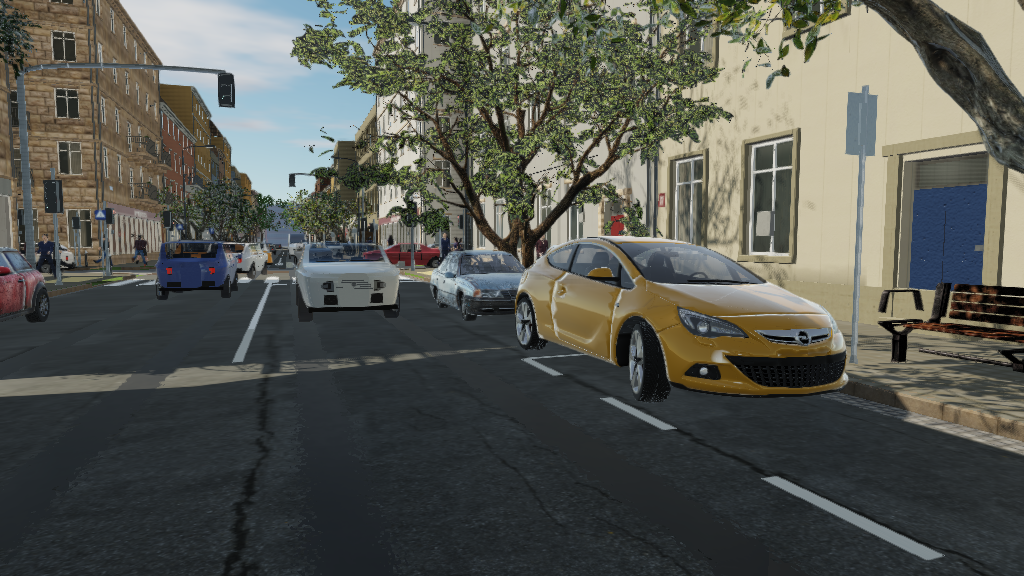
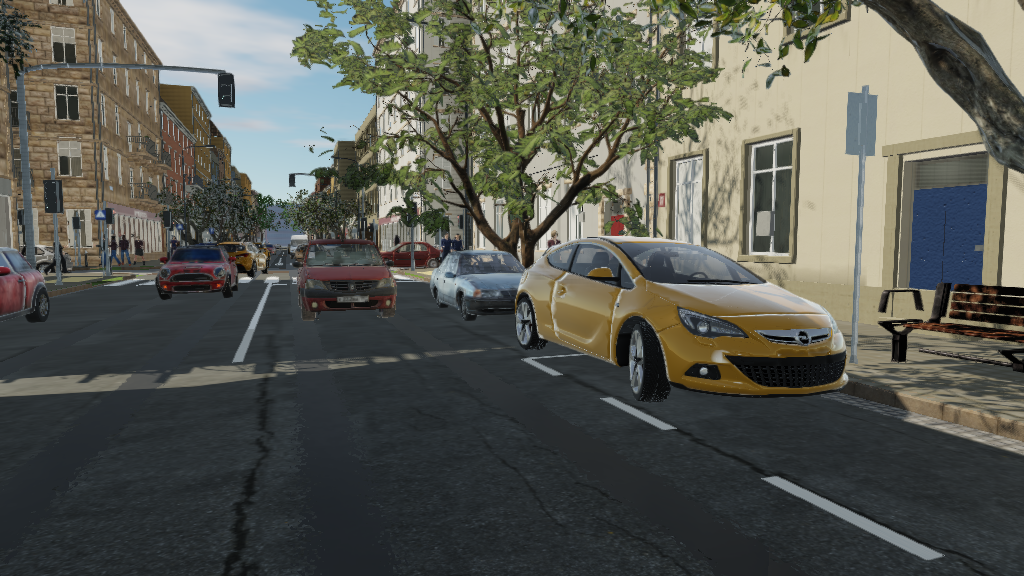
docs: the fifth pass -- coherence: before and after, flagship frames, report, performance
docs/visual-overhaul-5: every viewpoint before (8546c1f) beside after at
the same settings, the eight flagship frames at 1920 x 1080 at one sample
and resolved from two, the report, and the performance table -- llvmpipe
before against after from the same build directory, and the first profile
on the machine's own GPU, where the frame is bound by draw submission.

README: the cars driven, the gaits, the dressed facades, the supersample
flag, the mip-chain workaround, the performance table's fifth column.
plan.md: the fifth pass and what is next. design-notes: the weakest
prominent object, driving a car whose author did not separate the wheels,
a walk as several curves. The follow-up document notes the GLTF-206
workaround. The committed screenshot set is re-shot from the current
tree.

diff --git a/README.md b/README.md
@@ -143,7 +143,13 @@ projecting surround round each window, the balconies stand on brackets, every
 shop door is set a third of a metre back into a reveal with a stone threshold
 and a pull handle, and the walls carry what walls carry: meter cabinets,
 vents, conduit runs with their saddles, scanned security cameras over the
-shop doors and scanned condenser units beside the upper windows.
+shop doors and scanned condenser units beside the upper windows. The upper
+windows are two metres tall, as the rooms behind them were built for, and
+each shows something: a net curtain across the pane or drawn to the sides,
+a roller blind part way down, a room with the light off; a keystone stands
+proud of every head on the rendered and ashlar blocks, half of those blocks
+carry folding shutters beside their windows -- one in eight closed -- and
+half have quoins up their corners.
 
 **Beyond the frontage.** The two streets continue past the modelled plots
 with their kerbs, footways and carriageways, lined by blocks that carry real
@@ -162,18 +168,29 @@ never the same model in two neighbouring bays. They are static, so the
 reflection probes hold them and the shop windows reflect them. The loft each
 one replaces stays in the simulation and is not drawn.
 
-**The moving parts.** Twelve vehicles over six classes — city car, hatchback,
-saloon, estate, crossover, van — lofted from monotone-cubic profile curves
-rather than assembled from boxes, with wheel arches cut into the body, separate
+**The moving parts.** The traffic is the same eight authored cars, driven:
+`scripts/blender-vehicles.py` finds each model's four tyres, splits the
+wheels off into nodes of their own centred on their axles, and the scene
+rolls them from the odometer at their own radius and steers the front pair
+through the junction. Behind them stand twelve lofted vehicles over six
+classes — city car, hatchback, saloon, estate, crossover, van — lofted from
+monotone-cubic profile curves rather than assembled from boxes, with wheel arches cut into the body, separate
 wheels that roll and steer, tyres with shoulders, five-spoke alloys, tinted
 glazing, mirrors, bumpers, a grille with slats and a badge, wrap-around lamp
 clusters with chromed reflectors, number plates, a roof aerial and an interior
 with seats and a steering wheel. Bicycles lean on the stands. They follow the vehicle ahead, brake for a red light with
-their brake lamps lit, and turn through the junction on a Bézier.
+their brake lamps lit, and turn through the junction on a Bézier. They are the fallback for a tree
+without the derived cars, and the simulation the authored cars are driven by.
 
 Fifty-odd people over eight variants, each one mesh per material on a
-nineteen-bone skeleton and animated on the GPU by `SkinnedPbrEffect` from walk
-and idle clips built in code. The eight are built from MakeHuman's CC0 base
+nineteen-bone skeleton and animated on the GPU by `SkinnedPbrEffect` from
+three walks and three ways of standing built in code: an ordinary pace, a
+brisk one with a longer stride and more arm, an easy one with less; and a
+wait that shifts its weight and looks about, one that reads a phone, one
+with the hands together. Each person is dealt a gait and a stance, a stride
+scaled to their height, a place on the footway rather than its centre line,
+and turns a corner over half a second; one in six walks with the person in
+front. The eight are built from MakeHuman's CC0 base
 mesh and system wardrobe -- skins, clothes, shoes, hair, eyes -- by
 `scripts/blender-people.py` with MPFB in Blender, posed with the arms down,
 their authored weights folded from MakeHuman's 137 bones onto this project's
@@ -209,10 +226,11 @@ densest.
 
 `docs/visual-overhaul/` holds the first overhaul's before-and-after set,
 `docs/visual-overhaul-2/` the second pass's, `docs/visual-overhaul-3/` the
-third's, and `docs/visual-overhaul-4/` the fourth's: authored cars, authored
-people, three tree species, architectural depth and the hero cafe, each
-viewpoint before beside after, the night set, flagship frames at 1920 × 1080,
-and what it cost.
+third's, `docs/visual-overhaul-4/` the fourth's, and
+`docs/visual-overhaul-5/` the fifth's: the authored cars driven, three gaits,
+dressed windows and shutters, the cafe composed further, mip chains for every
+imported image and supersampled stills, each viewpoint before beside after,
+flagship frames at 1920 × 1080, and what it cost.
 
 ## Building
 
@@ -329,6 +347,7 @@ The command line, in full, is `--help`. The ones that matter:
 | `--camera x,y,z,yaw,pitch` | Start at an explicit camera, in radians |
 | `--screenshot <file.png>` | Write one frame and exit |
 | `--capture <dir>` | Write every named viewpoint into `<dir>` and exit |
+| `--supersample <n>` | Render a still at *n* times the size and box-filter it down, in linear light: the flagship frames are shot at 2 |
 | `--frames <n>` | Render *n* frames and exit |
 | `--sun <elev> <azimuth>` | Move the sun, in degrees |
 | `--no-shadows`, `--no-ssao`, `--no-bloom`, `--no-fog`, `--no-clouds`, `--no-ibl` | Turn one thing off |
@@ -717,7 +736,7 @@ generated trees, the lofted cars and the generated figures stand in.
 ctest --test-dir build --output-on-failure
 ```
 
-Twelve suites over the parts of the street that can be checked without a device:
+Thirteen suites over the parts of the street that can be checked without a device:
 the signal controller, the traffic model, the walk graph, mesh building, the
 layout, the settings parser, the camera frustum, the mip-chain generation the
 content pipeline depends on, the shapes and surfaces the first visual overhaul
@@ -804,18 +823,18 @@ them again. The overlay's headline is an *exponential* average and its
 breakdown is one frame's stage times: right for flying a camera around, wrong
 for tuning — it once read 214 ms on a frame that took 778.
 
-| | Before the second pass (`27f92a8`) | Before the third (`83dc8e1`) | Before the fourth (`c31ae23`) | Now |
-| --- | --- | --- | --- | --- |
-| Scene build | 7 s from compiled content | 7 s, then 6–8 s baking 29 reflection probes | 12 s, then 7 s of probes | 17 s, then 8 s of probes |
-| Static batches | 1 187 | 1 586 | 1 634 | 1 655 |
-| Textures | 198 catalogue surfaces plus per-shop signage and the imported models' own | the same, plus a poster atlas and a weathering-decal atlas | the same, fourteen of them scans at 1024 px, plus twenty scanned models' own | the same, plus forty-four scanned models', eight cars' at 1k and eight people's with mip chains |
-| Plots, vehicles, people | 42, 74, 78 | 42, 74, 78 | 42, 74 + one covered car, 78 | 42, 74 of which 8 are authored, 78 over 8 authored people |
-| Draw calls per frame | 1 361, of which 160 are skinned | 1 535 | 1 564 | 1 700 |
-| Shadow draw calls | 2 840 | 3 115 | 3 303 | 3 563 |
-| Triangles drawn | 560 k | 603 k | 1 695 k, of which the hero trees are most | 5 150 k, of which the trees are most |
-| Frame, 1024×576 | 34–45 ms median | 41–51 ms median | 47–59 ms median, interleaved with 52–64 for `83dc8e1` on a busy machine | 59–62 ms median against 47 for `c31ae23` |
-| Frame, 1920×1080 | 46 ms | 47 ms | 64 ms against 60 | 76 ms |
-| Frame, `--night` | 34 ms | 47 ms | unchanged by this pass | 56 ms |
+| | Before the second pass (`27f92a8`) | Before the third (`83dc8e1`) | Before the fourth (`c31ae23`) | Before the fifth (`c171cec`) | Now |
+| --- | --- | --- | --- | --- | --- |
+| Scene build | 7 s from compiled content | 7 s, then 6–8 s baking 29 reflection probes | 12 s, then 7 s of probes | 17 s, then 8 s of probes | 27 s on a loaded machine, then 10 s of probes |
+| Static batches | 1 187 | 1 586 | 1 634 | 1 655 | 1 721 |
+| Textures | 198 catalogue surfaces plus per-shop signage and the imported models' own | the same, plus a poster atlas and a weathering-decal atlas | the same, fourteen of them scans at 1024 px, plus twenty scanned models' own | the same, plus forty-four scanned models', eight cars' at 1k and eight people's with mip chains | the same, every imported image now compiled with a mip chain, two cars' paint at 2k |
+| Plots, vehicles, people | 42, 74, 78 | 42, 74, 78 | 42, 74 + one covered car, 78 | 42, 74 of which 8 are authored, 78 over 8 authored people | 42, 74 all drawn as the 8 authored models, 78 over 8 people in 3 gaits |
+| Draw calls per frame | 1 361, of which 160 are skinned | 1 535 | 1 564 | 1 700 | 1 750–1 780 |
+| Shadow draw calls | 2 840 | 3 115 | 3 303 | 3 563 | 3 525 |
+| Triangles drawn | 560 k | 603 k | 1 695 k, of which the hero trees are most | 5 150 k, of which the trees are most | 5 620 k |
+| Frame, 1024×576 | 34–45 ms median | 41–51 ms median | 47–59 ms median, interleaved with 52–64 for `83dc8e1` on a busy machine | 59–62 ms median against 47 for `c31ae23` | 71–77 ms median against 72–86 for `c171cec`, both on a machine running other builds |
+| Frame, 1920×1080 | 46 ms | 47 ms | 64 ms against 60 | 76 ms | not re-measured |
+| Frame, `--night` | 34 ms | 47 ms | unchanged by this pass | 56 ms | not re-measured |
 
 Those are from a 16-core machine that was busy with other work while it
 measured, hence the ranges; the first overhaul's table, from four cores, is in
@@ -857,6 +876,16 @@ milliseconds are the opaque pass and four the shadow pass.
 `docs/visual-overhaul-4/performance.md` has the runs and where the triangles
 went.
 
+Against `c171cec`, the commit before the fifth pass, three runs each from the
+same build directory on a machine running other work throughout (load
+average eight to fourteen): **within noise** -- 73 / 86 / 78 ms before
+against 76 / 74 / 79 after at 1024 × 576 -- for every moving car drawn as
+an authored model, the dressed facades and the cafe. The first cut of the
+pass measured 92 ms; the props inside shops no longer cast shadows and a
+moving car switches to its welded far copy at thirty-two metres, which took
+it back. `docs/visual-overhaul-5/performance.md` has the runs, and a profile
+on the machine's own GPU, where the frame is the shadow pass's draw calls.
+
 Against `83dc8e1`, the commit before the third pass, three interleaved pairs
 at 1024 × 576 came out 52.0 / 63.8 / 55.4 ms before against 47.2 / 52.1 /
 58.6 ms after, and one pair at 1920 × 1080 59.5 against 63.8: within noise,
@@ -891,9 +920,10 @@ materials, and alpha masking instead of blending everywhere except glass.
 * **No audio.** CNA's audio module is there and works; the demo has nothing to
   play through it, and a synthesised city ambience would be a worse thing than
   silence.
-* **The moving traffic is still lofts.** The eight authored cars are parked;
-  a car driving past the camera is the generated one, because a moving car
-  needs wheels that turn and the authored models do not separate theirs.
+* **The moving traffic has no brake lights.** The authored cars carry their
+  lamps in their textures, so a driven one shows no lit lens when it brakes;
+  the loft it stands in for did. A per-part emissive override for the parts
+  named as lamps is the next step.
 * **The people's faces are painted.** MakeHuman's skins hold at four metres,
   which is where a street is seen from, and at two metres a painted face is a
   painted face.
@@ -903,10 +933,12 @@ materials, and alpha masking instead of blending everywhere except glass.
   the MPFB extension the manifest fetches; without Blender the generated
   trees, the lofted cars and the generated figures stand in, which is the
   fallback and not a failure.
-* **Scanned props and the cars carry one mip level** (GLTF-206), which is
-  why they are fetched or capped at 1k rather than 2k or 4k: a texture would
-  otherwise shimmer from a few metres. The people's textures do not, because
-  they go through the catalogue's compiler.
+* **An imported model's own images carry one mip level** (GLTF-206). The
+  content build now compiles every image a model refers to under its own
+  full name with a chain, which `ContentManager` finds before the loose
+  file, so nothing in the compiled set shimmers; a tree running the models
+  straight from their `.glb` files does, and the props are still fetched at
+  1k for it.
 * **An imported single-sided part draws inside out** under CNA's default cull
   (CNA-F15). The derived cars and people carry reversed winding for it, and
   any other single-sided import will need the same.
@@ -951,7 +983,8 @@ scripts/validate-assets.py  the licence gate, also a CTest test
 scripts/manifest-tool.py    reads the manifest for the build and the fetch
 scripts/prepare-surfaces.py turns scanned PBR sets into catalogue surfaces
 scripts/blender-tree-lod.py cuts a tree's levels of detail, in Blender
-scripts/blender-vehicles.py normalises a downloaded car into two levels of detail, in Blender
+scripts/blender-vehicles.py normalises a downloaded car into two levels of detail with its wheels split off, in Blender
+scripts/model-textures.py   lists a compiled model's images with the colour space their mip chains are averaged in
 scripts/blender-people.py   builds the people from MakeHuman with MPFB, in Blender
 scripts/blender-vehicle-preview.py
                             renders a model's orientation views, for checking a download
@@ -973,6 +1006,7 @@ docs/visual-overhaul/       the first visual overhaul: audit, comparisons, repor
 docs/visual-overhaul-2/     the second pass: before and after, night, report
 docs/visual-overhaul-3/     the third pass: scans, props, trees, light
 docs/visual-overhaul-4/     the fourth pass: authored cars, people, trees, depth, the hero cafe
+docs/visual-overhaul-5/     the fifth pass: the cars driven, gaits, dressed facades, coherence
 plan.md                     what is done, what is next
 ```
 
